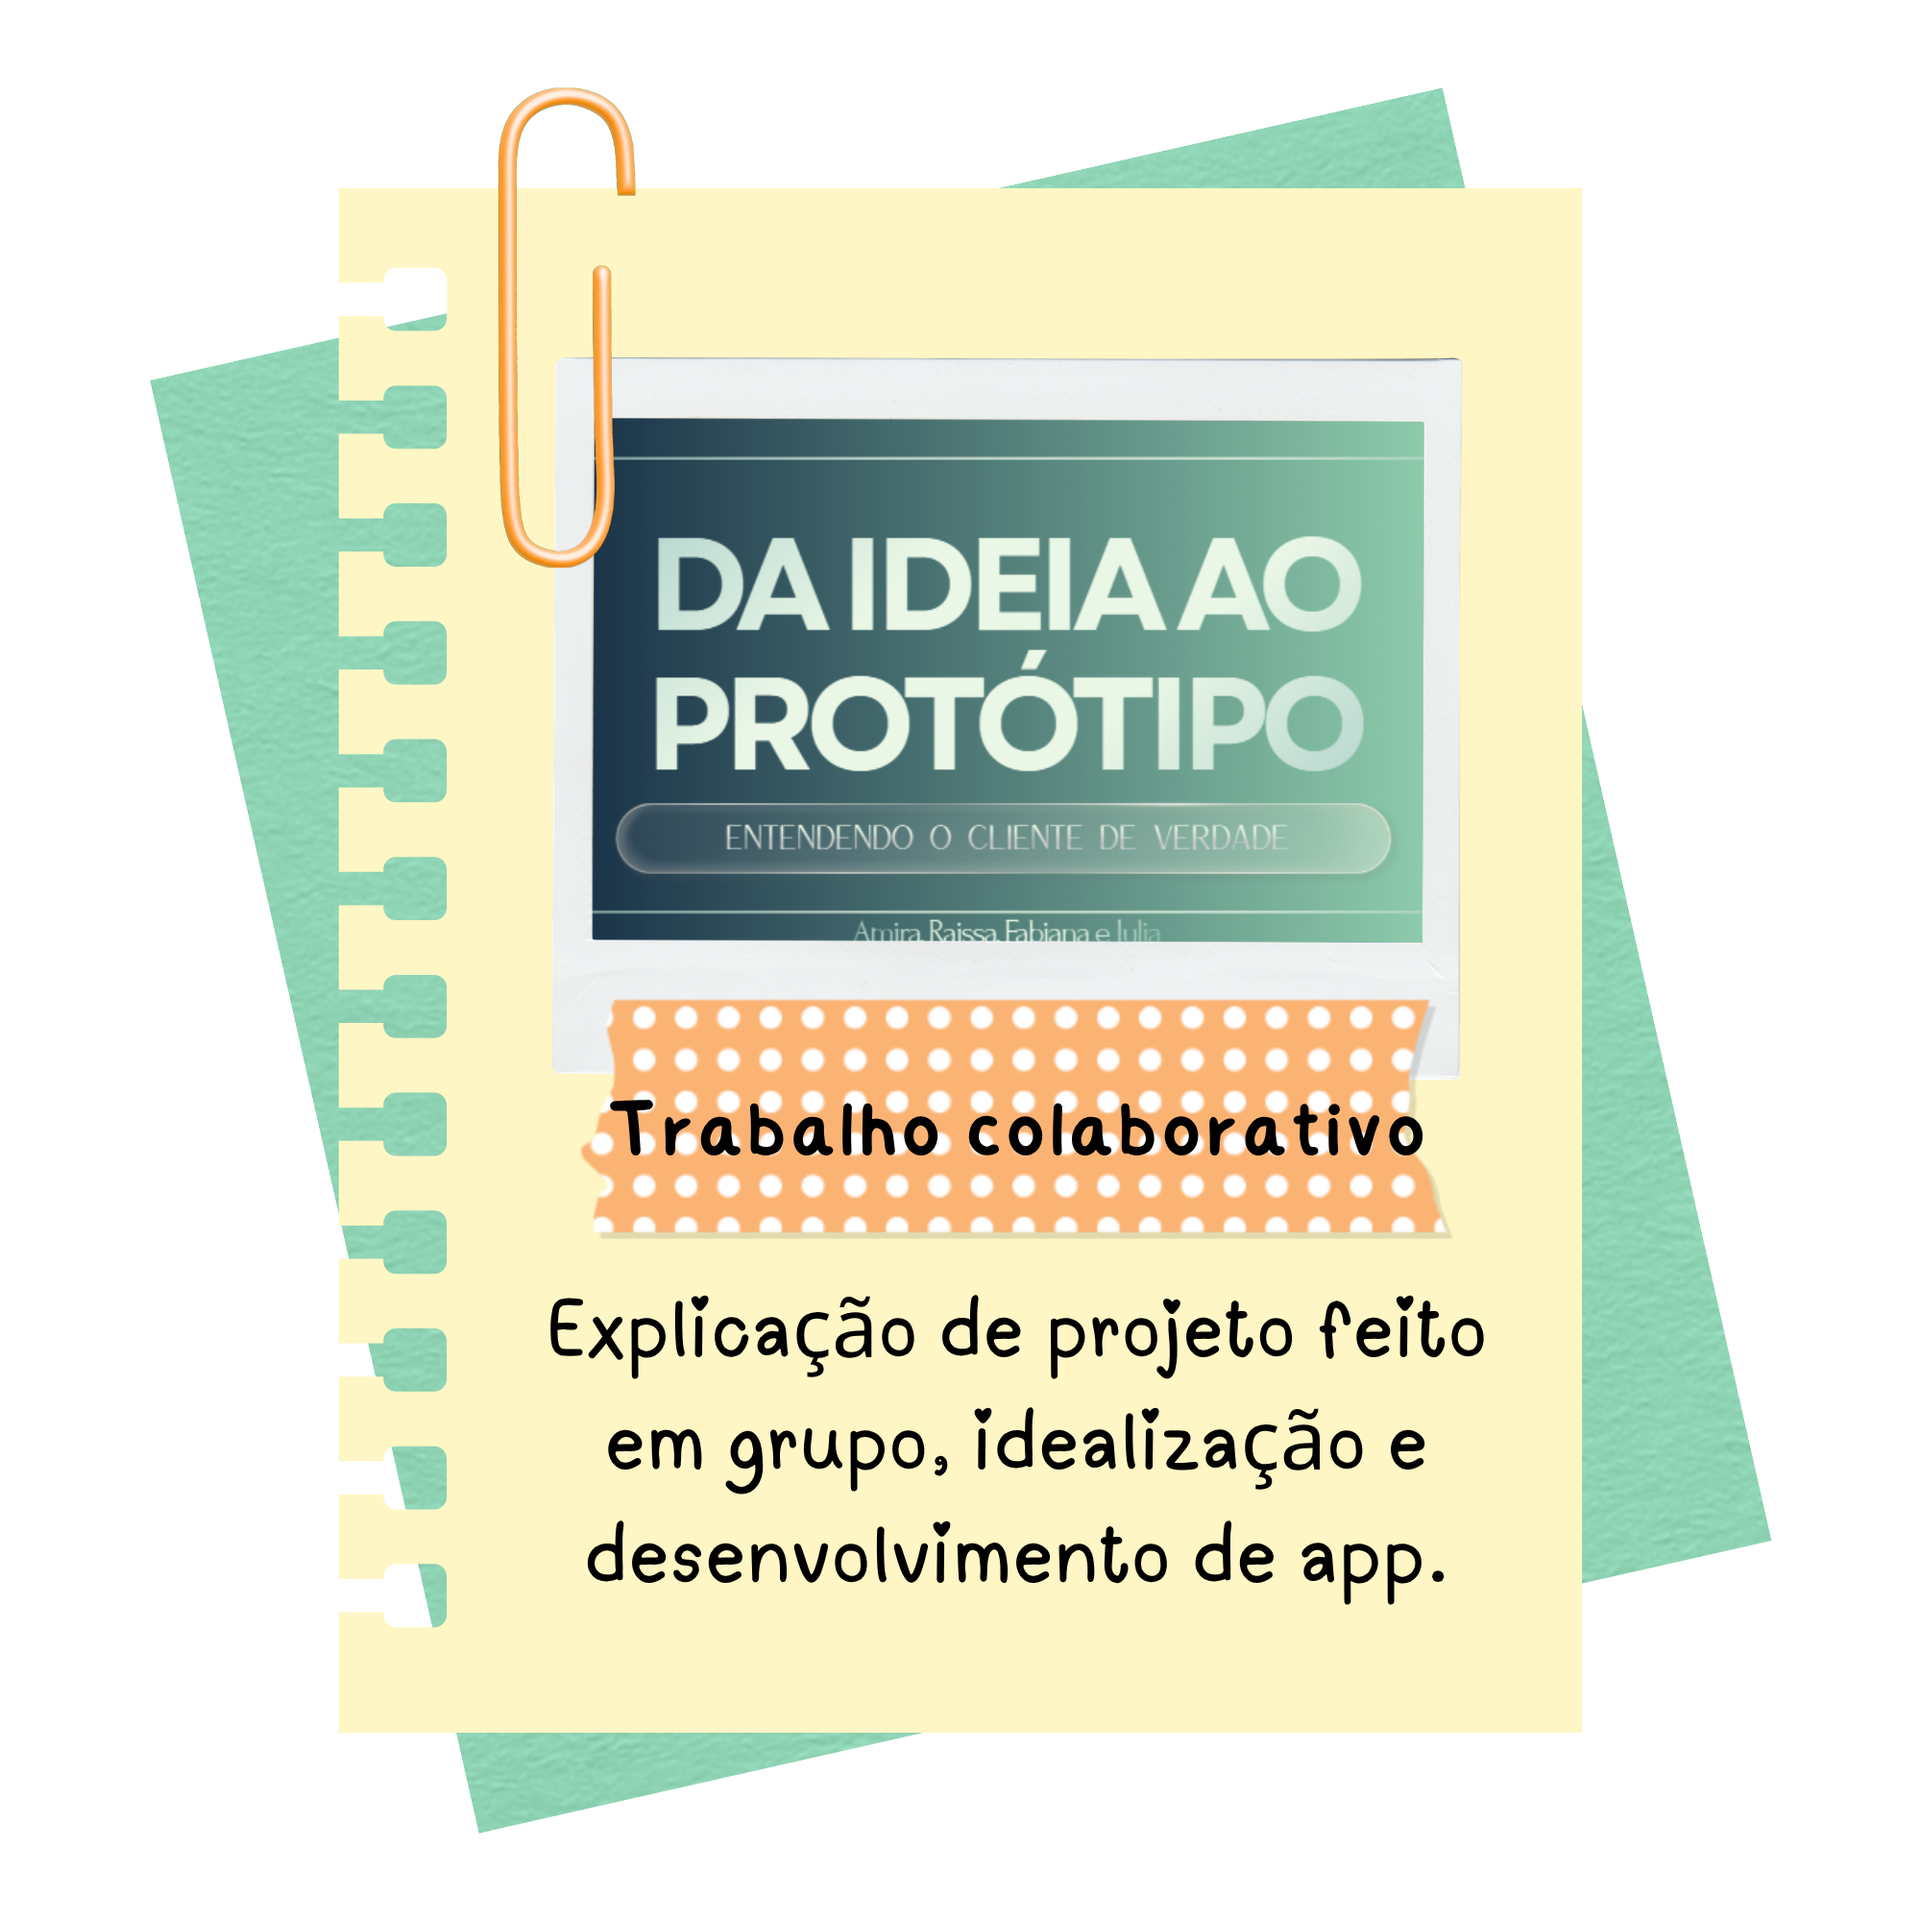
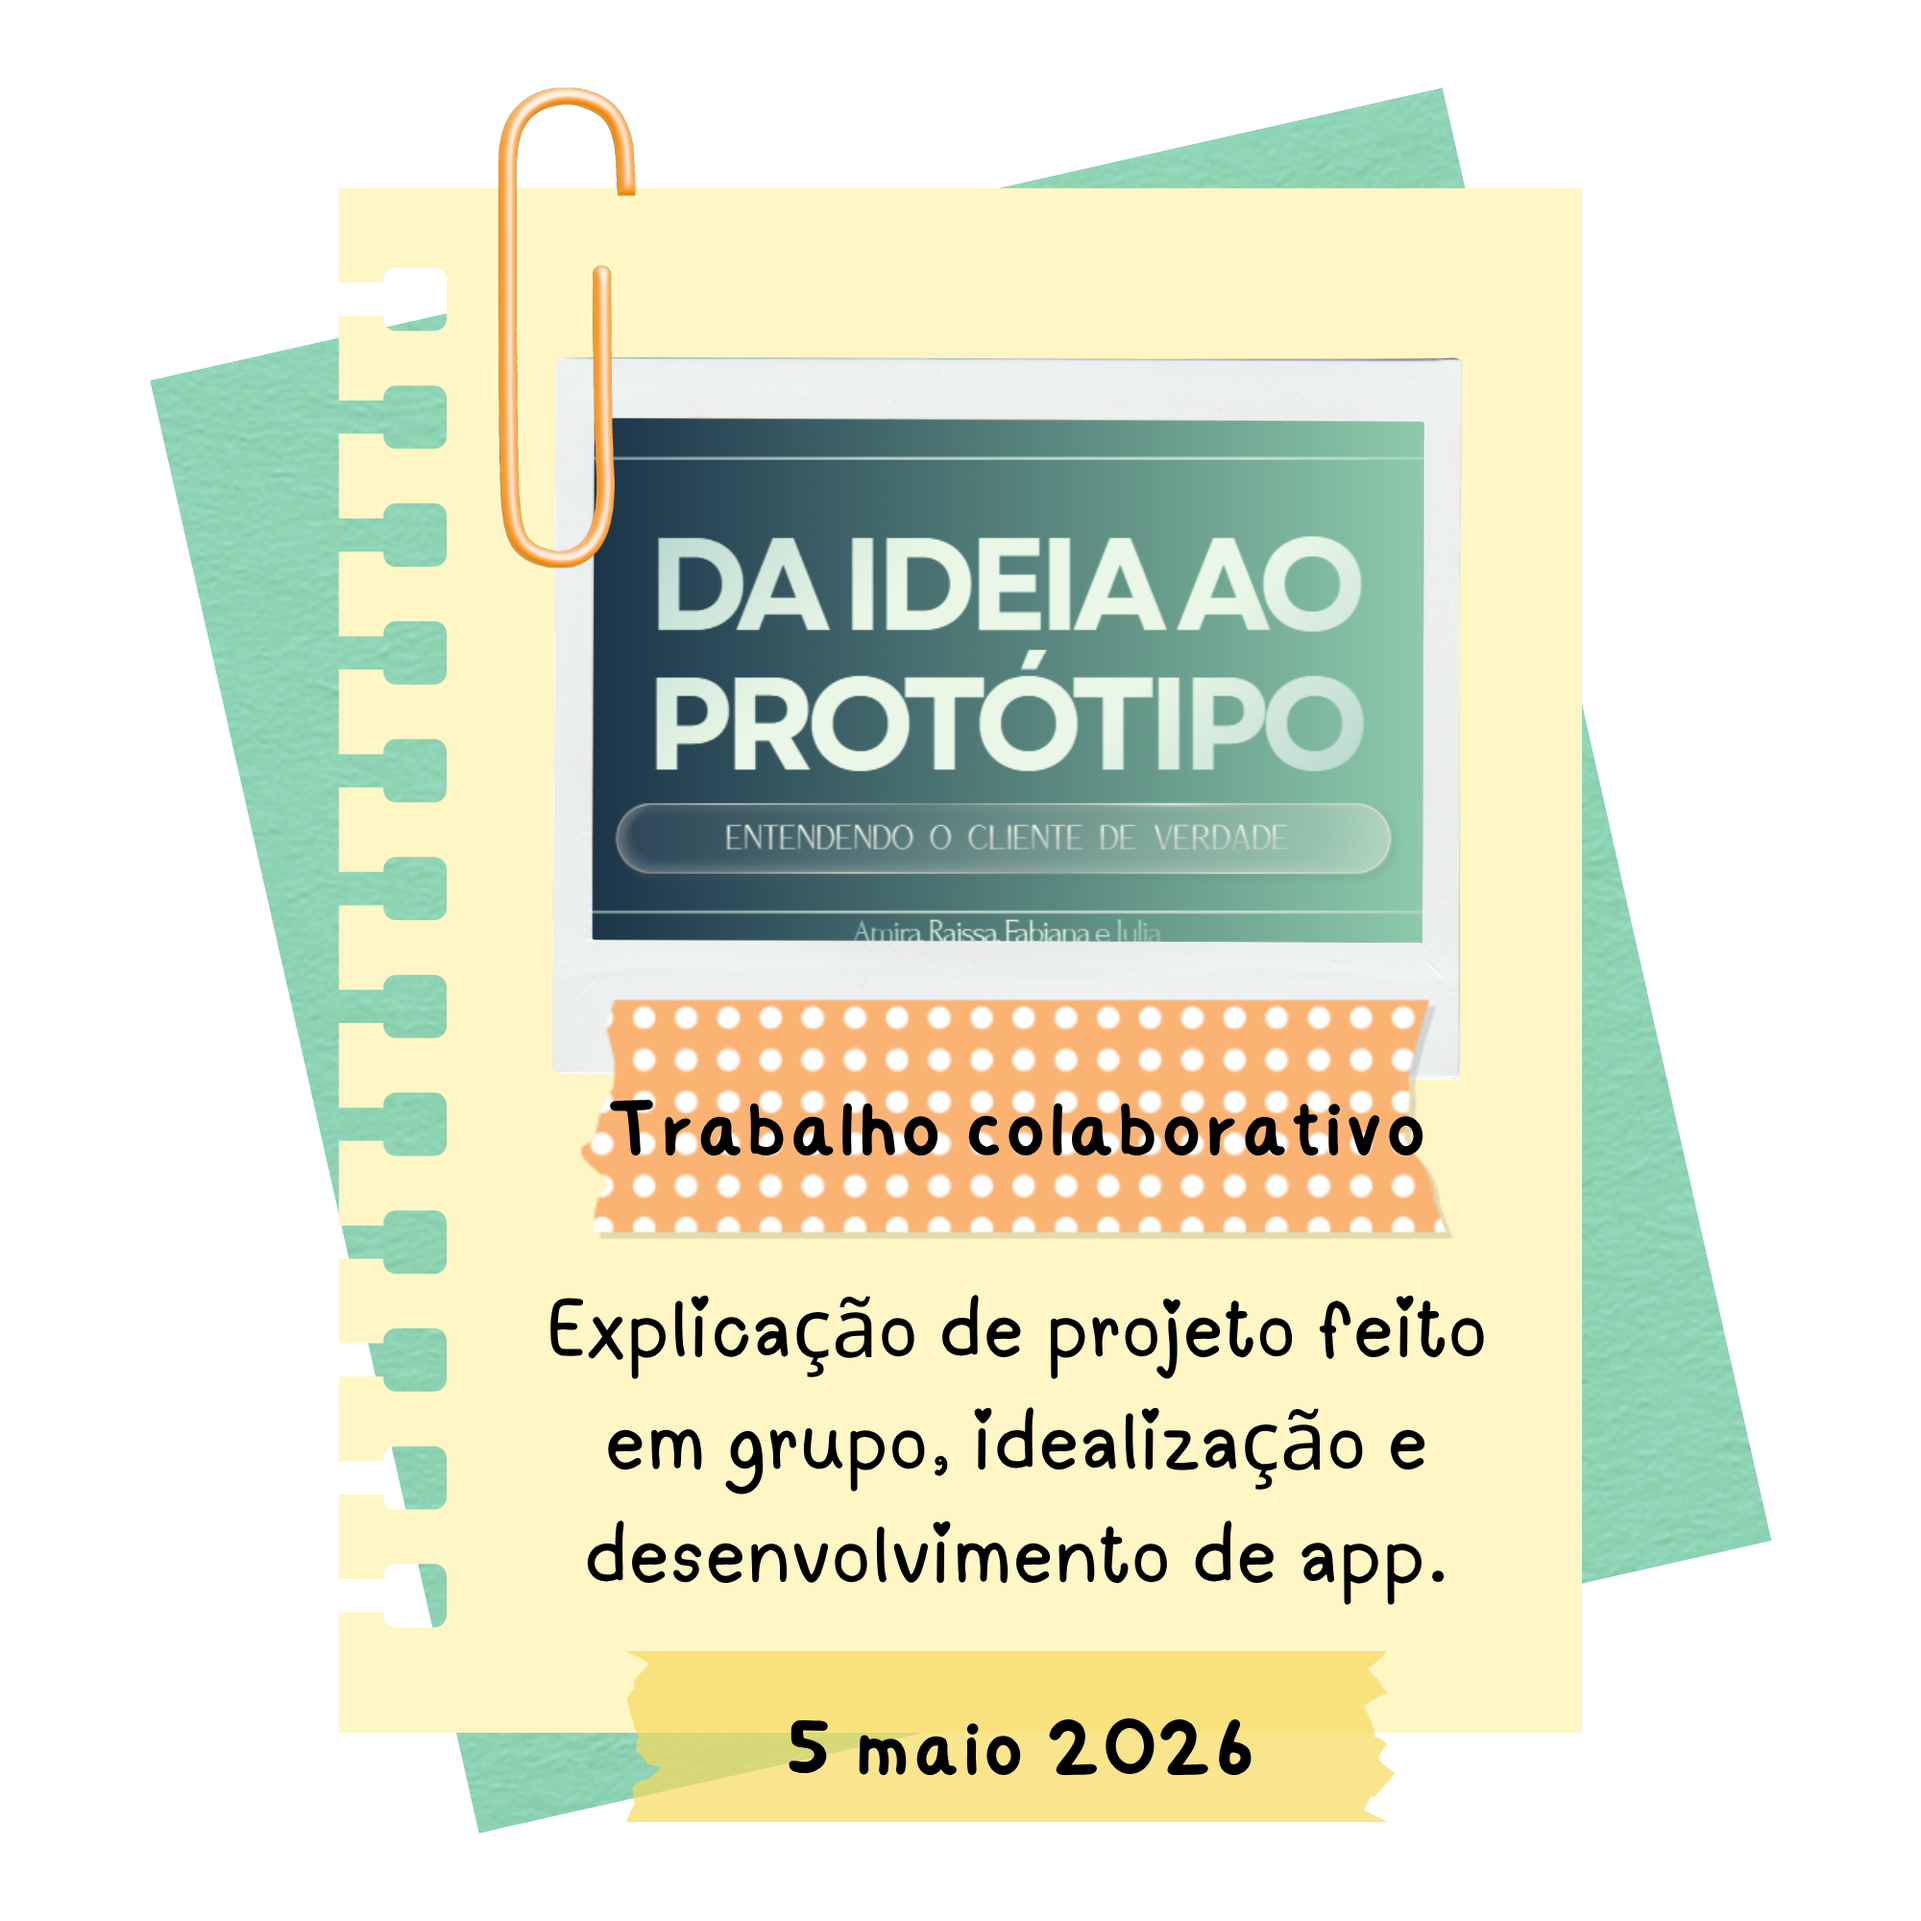
adiçao de cards e datas das atividades

Changed region(s): [[0.31, 0.837, 0.744, 0.961]]

diff --git a/style.css b/style.css
@@ -54,10 +54,6 @@ nav a img:hover {
     transform: scale(1.1);
     filter: drop-shadow(4px 4px 0px rgba(255, 223, 81, 0.938));
 }
-.habilidades:hover {
-    transform: scale(1.1);
-    filter: drop-shadow(4px 4px 0px rgba(19, 185, 197, 0.918));
-}
 .contato:hover {
     transform: scale(1.1);
     filter: drop-shadow(4px 4px 0px rgba(148, 18, 199, 0.849));
@@ -72,13 +68,13 @@ nav a img:hover {
     width: 645px;
     height: auto;
     margin-left: -15px;
-    
+    margin-top: 50px;
 }
 .titulo-home {
     position: absolute;
     pointer-events: none;
     width: 590px;
-    margin-top: -30px;
+    margin-top: 30px;
     margin-left: 280px; 
     transform: rotate(6deg);
 }
@@ -86,14 +82,14 @@ nav a img:hover {
     position: absolute;
     pointer-events: none;
     width: 520px;
-    margin-top: 180px;
+    margin-top: 250px;
     margin-left: 190px; 
     z-index: -1;
 }
 .perfil-home {
     position: absolute;
     width: 390px;
-    margin-top: 120px;
+    margin-top: 170px;
     margin-left: 830px;
 }
 .perfil-home:hover {
@@ -105,7 +101,7 @@ nav a img:hover {
     pointer-events: none;
     width: 340px;
     margin-left: 570px;
-    margin-top: -60px;
+    margin-top: -10px;
     transform: rotate(-10deg);
 }
 .traços-home {
@@ -113,7 +109,7 @@ nav a img:hover {
     pointer-events: none;
     width: 160px;
     margin-left: 1075px;
-    margin-top: 15px;
+    margin-top: 55px;
     transform: rotate(-18deg);
 }
 .postit-1-home {
@@ -121,28 +117,28 @@ nav a img:hover {
     pointer-events: none;
     width: 180px;
     margin-left: 1315px;
-    margin-top: 8px;
+    margin-top: 62px;
 }
 .deco-direita-home {
     position: absolute;
     pointer-events: none;
     width: 400px;
     margin-left: 1093px;
-    margin-top: 241px;
+    margin-top: 295px;
 }
 /*area de ediçao de sobre-mim*/
 .fundo-1-home{
     position: absolute;
     pointer-events: none;
     width: 1501px;
-    margin-top: 700px;
+    margin-top: 695px;
     margin-left:-8px;
 }
 .fita-cetim-home {
     position: absolute;
     pointer-events: none;
     width: 1501px;
-    margin-top: -60px;
+    margin-top: -28px;
     margin-left:-8px;
 }
 .postit-2-home {
@@ -480,6 +476,22 @@ nav a img:hover {
     height: auto;
 }
 .card-16-home:hover {
+    transform: scale(1.1);
+    filter: drop-shadow(15px 4px 0px rgba(255, 226, 147, 0.986)); 
+}
+.card-17-home {
+    width: 300px; /* Tamanho do Card 1 */
+    height: auto;
+}
+.card-17-home:hover {
+    transform: scale(1.1);
+    filter: drop-shadow(15px 4px 0px rgba(255, 226, 147, 0.986)); 
+}
+.card-18-home {
+    width: 300px; /* Tamanho do Card 1 */
+    height: auto;
+}
+.card-18-home:hover {
     transform: scale(1.1);
     filter: drop-shadow(15px 4px 0px rgba(255, 226, 147, 0.986)); 
 }

diff --git a/index.html b/index.html
@@ -86,8 +86,8 @@
             <a href="#pagina5"><img src="images/seta-2.png" class="seta-10"></a>
             <div class="page-content">
                 <img src="images/card-16.png" class="card-16-home">
-                <span class="card-placeholder"></span> 
-                <span class="card-placeholder"></span> 
+                <img src="images/card-17.png" class="card-17-home">
+                <img src="images/card-18.png" class="card-18-home">
             </div>
             <span class="seta-placeholder"></span> 
         </div>
